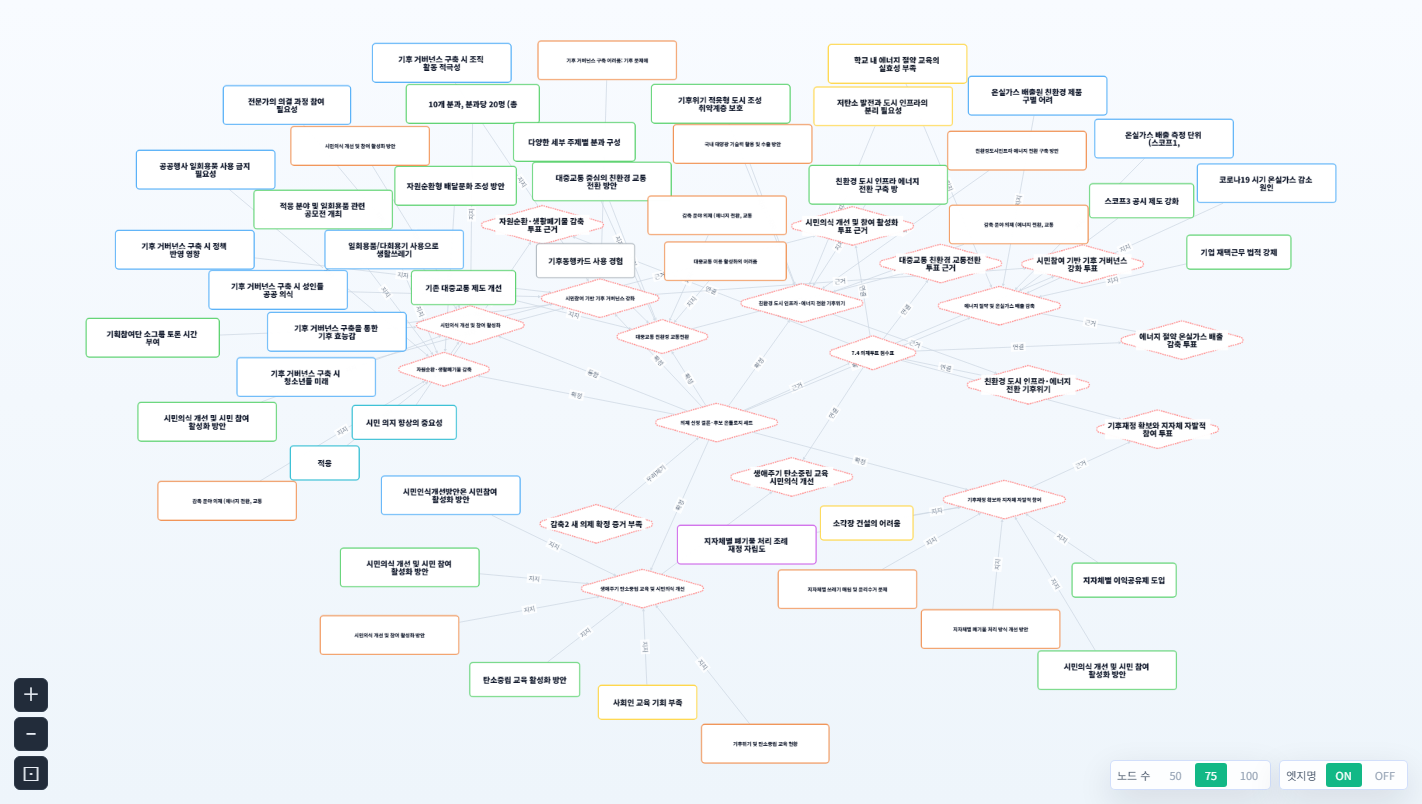
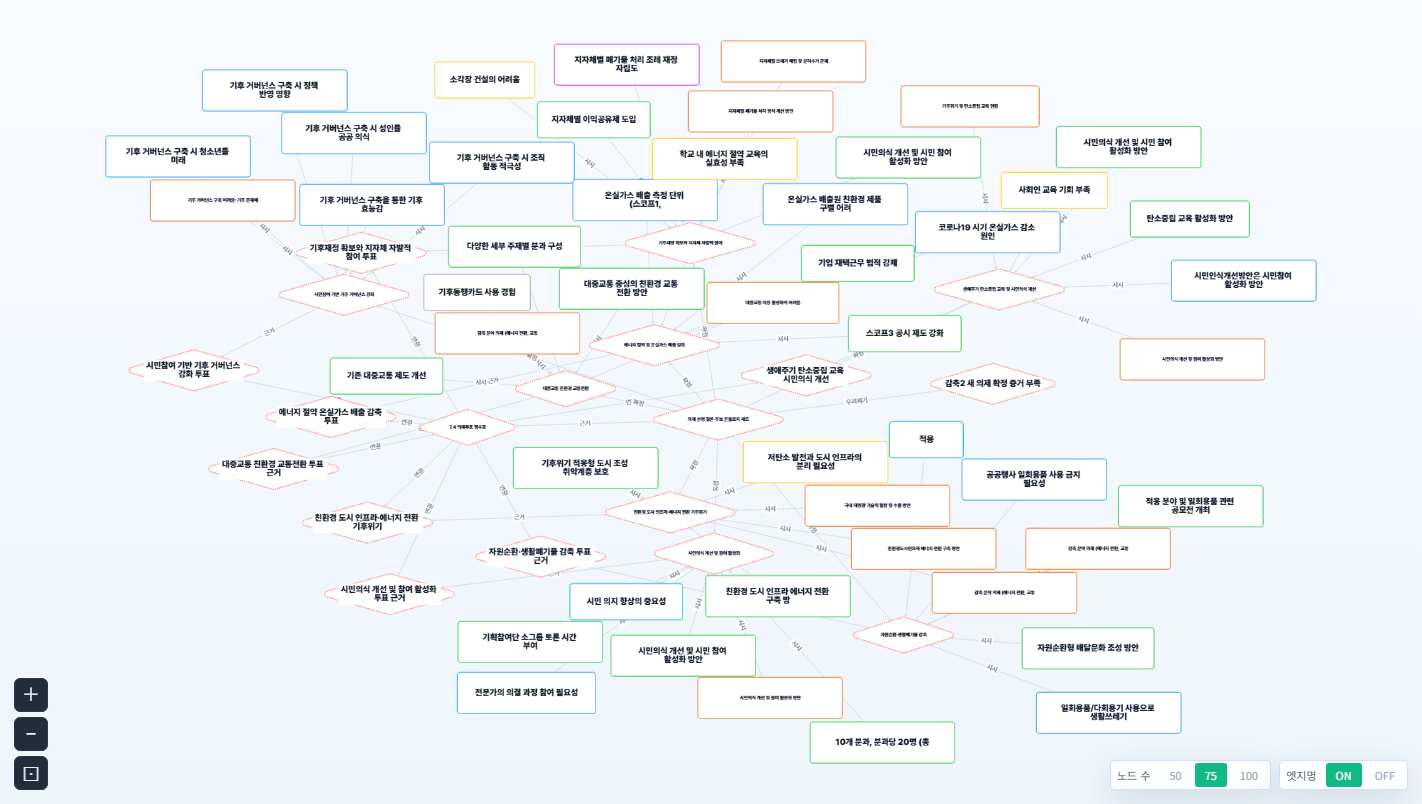
fix: enlarge final decision graph labels

diff --git a/public/workshop-graph/index.html b/public/workshop-graph/index.html
@@ -7,6 +7,7 @@
 <title>숙의 온톨로지 — 통합 그래프</title>
 <link rel="preconnect" href="https://fonts.googleapis.com">
 <link href="https://fonts.googleapis.com/css2?family=Noto+Sans+KR:wght@400;500;700;900&display=swap" rel="stylesheet">
+<link rel="stylesheet" href="https://cdn.jsdelivr.net/gh/orioncactus/pretendard/dist/web/static/pretendard.css">
 <link rel="stylesheet" href="/_ontology-chrome/chrome.css?v=20260626-present-levels">
 <script src="https://unpkg.com/cytoscape@3.30.2/dist/cytoscape.min.js"></script>
 <script src="https://unpkg.com/layout-base@2.0.1/layout-base.js"></script>
@@ -91,9 +92,9 @@
   body.og-showcase-mode.og-showcase-dark .og-showcase-edge-tog .og-grp-lbl{color:#9fb3c8}
   body.og-showcase-mode.og-showcase-dark .og-canvas{background:radial-gradient(circle at 42% 44%,#192536 0,#0f1722 48%,#080d14 100%)}
   body.og-final-decision-showcase .og-canvas{background:linear-gradient(180deg,#f8fbff 0,#eef5fb 100%)}
-  body.og-final-decision-showcase .og-quick{font-size:14px;line-height:1.65;max-width:440px;border-color:rgba(15,118,110,.28);box-shadow:0 22px 64px rgba(15,23,42,.18)}
+  body.og-final-decision-showcase .og-quick{font-family:'Pretendard','Noto Sans KR','Malgun Gothic',sans-serif;font-size:16px;font-weight:800;line-height:1.7;max-width:500px;border-color:rgba(15,118,110,.28);box-shadow:0 22px 64px rgba(15,23,42,.18)}
   body.og-final-decision-showcase .og-surface-card{min-width:320px}
-  body.og-final-decision-showcase .og-surface-card p{font-size:14px;color:#1f2937}
+  body.og-final-decision-showcase .og-surface-card p{font-size:16px;font-weight:800;color:#1f2937}
   body.og-showcase-mode .og-body{flex:1}
   body.og-showcase-mode .og-hub-rail{display:none !important}
   body.og-showcase-mode #og-group-tog,
@@ -1869,13 +1870,13 @@ function buildCyStyle(palette) {
           if (presentLevel === 'full' && n.data('isOverviewLabel')) return n.data('label') || '';
           return '';
         },
-        'color': finalDecisionProjectorMode ? '#0f172a' : (paperLike ? '#0f172a' : '#eef3f9'), 'font-size': finalDecisionProjectorMode ? '20px' : (demo ? '15px' : (presentMode ? (presentLevel === 'full' ? '16px' : '14px') : '12px')),
+        'color': finalDecisionProjectorMode ? '#0f172a' : (paperLike ? '#0f172a' : '#eef3f9'), 'font-size': finalDecisionProjectorMode ? '24px' : (demo ? '15px' : (presentMode ? (presentLevel === 'full' ? '16px' : '14px') : '12px')),
         'min-zoomed-font-size': demo ? 0 : (presentMode ? (presentLevel === 'full' ? 18 : 999) : 7),  /* 시맨틱 줌: 줌아웃 시 라벨 자동 숨김(노드는 점으로 유지·무손실) */
-        'font-family':'Noto Sans KR, Malgun Gothic, sans-serif', 'font-weight': finalDecisionProjectorMode ? 900 : (presentMode || demo ? 700 : 500),
-        'text-wrap':'wrap','text-max-width': finalDecisionProjectorMode ? '260px' : (demo ? '190px' : (presentMode ? '120px' : '140px')),'text-valign': demo ? 'center' : 'bottom','text-halign':'center','text-margin-y': demo ? 0 : 3,
+        'font-family': finalDecisionProjectorMode ? 'Pretendard, Noto Sans KR, Malgun Gothic, sans-serif' : 'Noto Sans KR, Malgun Gothic, sans-serif', 'font-weight': finalDecisionProjectorMode ? 900 : (presentMode || demo ? 700 : 500),
+        'text-wrap':'wrap','text-max-width': finalDecisionProjectorMode ? '300px' : (demo ? '190px' : (presentMode ? '120px' : '140px')),'text-valign': demo ? 'center' : 'bottom','text-halign':'center','text-margin-y': demo ? 0 : 3,
         'text-outline-color': '#ffffff','text-outline-width': finalDecisionProjectorMode ? 3.5 : (demo ? 0 : (presentMode ? 2.5 : 2.5)),
-        'width': n => finalDecisionProjectorMode ? Math.max(150, Math.min(330, String(n.data('shortLabel') || n.data('label') || '').length * 15 + 46)) : (demo ? Math.max(96, Math.min(250, String(n.data('shortLabel') || n.data('label') || '').length * 13 + 34)) : (presentMode?26:22) + Math.min(n.data('deg')||0,8)*(presentMode?3:4)),
-        'height': n => finalDecisionProjectorMode ? Math.max(54, String(n.data('shortLabel') || n.data('label') || '').length > 15 ? 72 : 60) : (demo ? Math.max(32, String(n.data('shortLabel') || n.data('label') || '').length > 15 ? 44 : 36) : (presentMode?26:22) + Math.min(n.data('deg')||0,8)*(presentMode?3:4)),
+        'width': n => finalDecisionProjectorMode ? Math.max(180, Math.min(380, String(n.data('shortLabel') || n.data('label') || '').length * 18 + 56)) : (demo ? Math.max(96, Math.min(250, String(n.data('shortLabel') || n.data('label') || '').length * 13 + 34)) : (presentMode?26:22) + Math.min(n.data('deg')||0,8)*(presentMode?3:4)),
+        'height': n => finalDecisionProjectorMode ? Math.max(68, String(n.data('shortLabel') || n.data('label') || '').length > 15 ? 88 : 74) : (demo ? Math.max(32, String(n.data('shortLabel') || n.data('label') || '').length > 15 ? 44 : 36) : (presentMode?26:22) + Math.min(n.data('deg')||0,8)*(presentMode?3:4)),
         'border-width': finalDecisionProjectorMode ? 2.8 : 2.2,'border-color': n => finalDecisionProjectorMode ? (palette[n.data('kind')] || '#2563eb') : '#0d1118','shape':'ellipse','opacity':1,
     }},
     { selector:'node.showcase-node', style:{
@@ -1912,8 +1913,8 @@ function buildCyStyle(palette) {
     { selector:'edge', style:{
         'width': finalDecisionProjectorMode ? 2.2 : (demo ? 1.25 : 1.8), 'line-color': paperLike ? (demo ? '#cbd5e1' : '#64748b') : (demo ? '#526073' : '#6b7890'), 'target-arrow-color': paperLike ? (demo ? '#cbd5e1' : '#64748b') : (demo ? '#526073' : '#6b7890'),
         'target-arrow-shape':'triangle','curve-style':'bezier','arrow-scale': demo ? 0.9 : 1,
-        'label': demo ? (showcaseEdgeLabels ? 'data(relKo)' : '') : (paper ? '' : 'data(relKo)'),'font-size': finalDecisionProjectorMode ? '16px' : (demo ? '8.2px' : '10px'),'min-zoomed-font-size': demo ? (showcaseEdgeLabels ? 0 : 999) : 9,'color': paperLike ? (demo ? '#475569' : '#1f2937') : (demo ? '#cbd5e1' : '#d3dbe8'),
-        'font-family':'Noto Sans KR, Malgun Gothic, sans-serif',
+        'label': demo ? (showcaseEdgeLabels ? 'data(relKo)' : '') : (paper ? '' : 'data(relKo)'),'font-size': finalDecisionProjectorMode ? '18px' : (demo ? '8.2px' : '10px'),'min-zoomed-font-size': demo ? (showcaseEdgeLabels ? 0 : 999) : 9,'color': paperLike ? (demo ? '#475569' : '#1f2937') : (demo ? '#cbd5e1' : '#d3dbe8'),
+        'font-family': finalDecisionProjectorMode ? 'Pretendard, Noto Sans KR, Malgun Gothic, sans-serif' : 'Noto Sans KR, Malgun Gothic, sans-serif',
         'text-rotation':'autorotate','text-background-color': paperLike ? '#ffffff' : '#11151c',
         'text-background-opacity': finalDecisionProjectorMode ? 0.96 : (demo ? 0.74 : 0.85),'text-background-padding': finalDecisionProjectorMode ? 4 : 2,'opacity': finalDecisionProjectorMode ? 0.82 : (demo ? 0.66 : 0.82),
     }},
